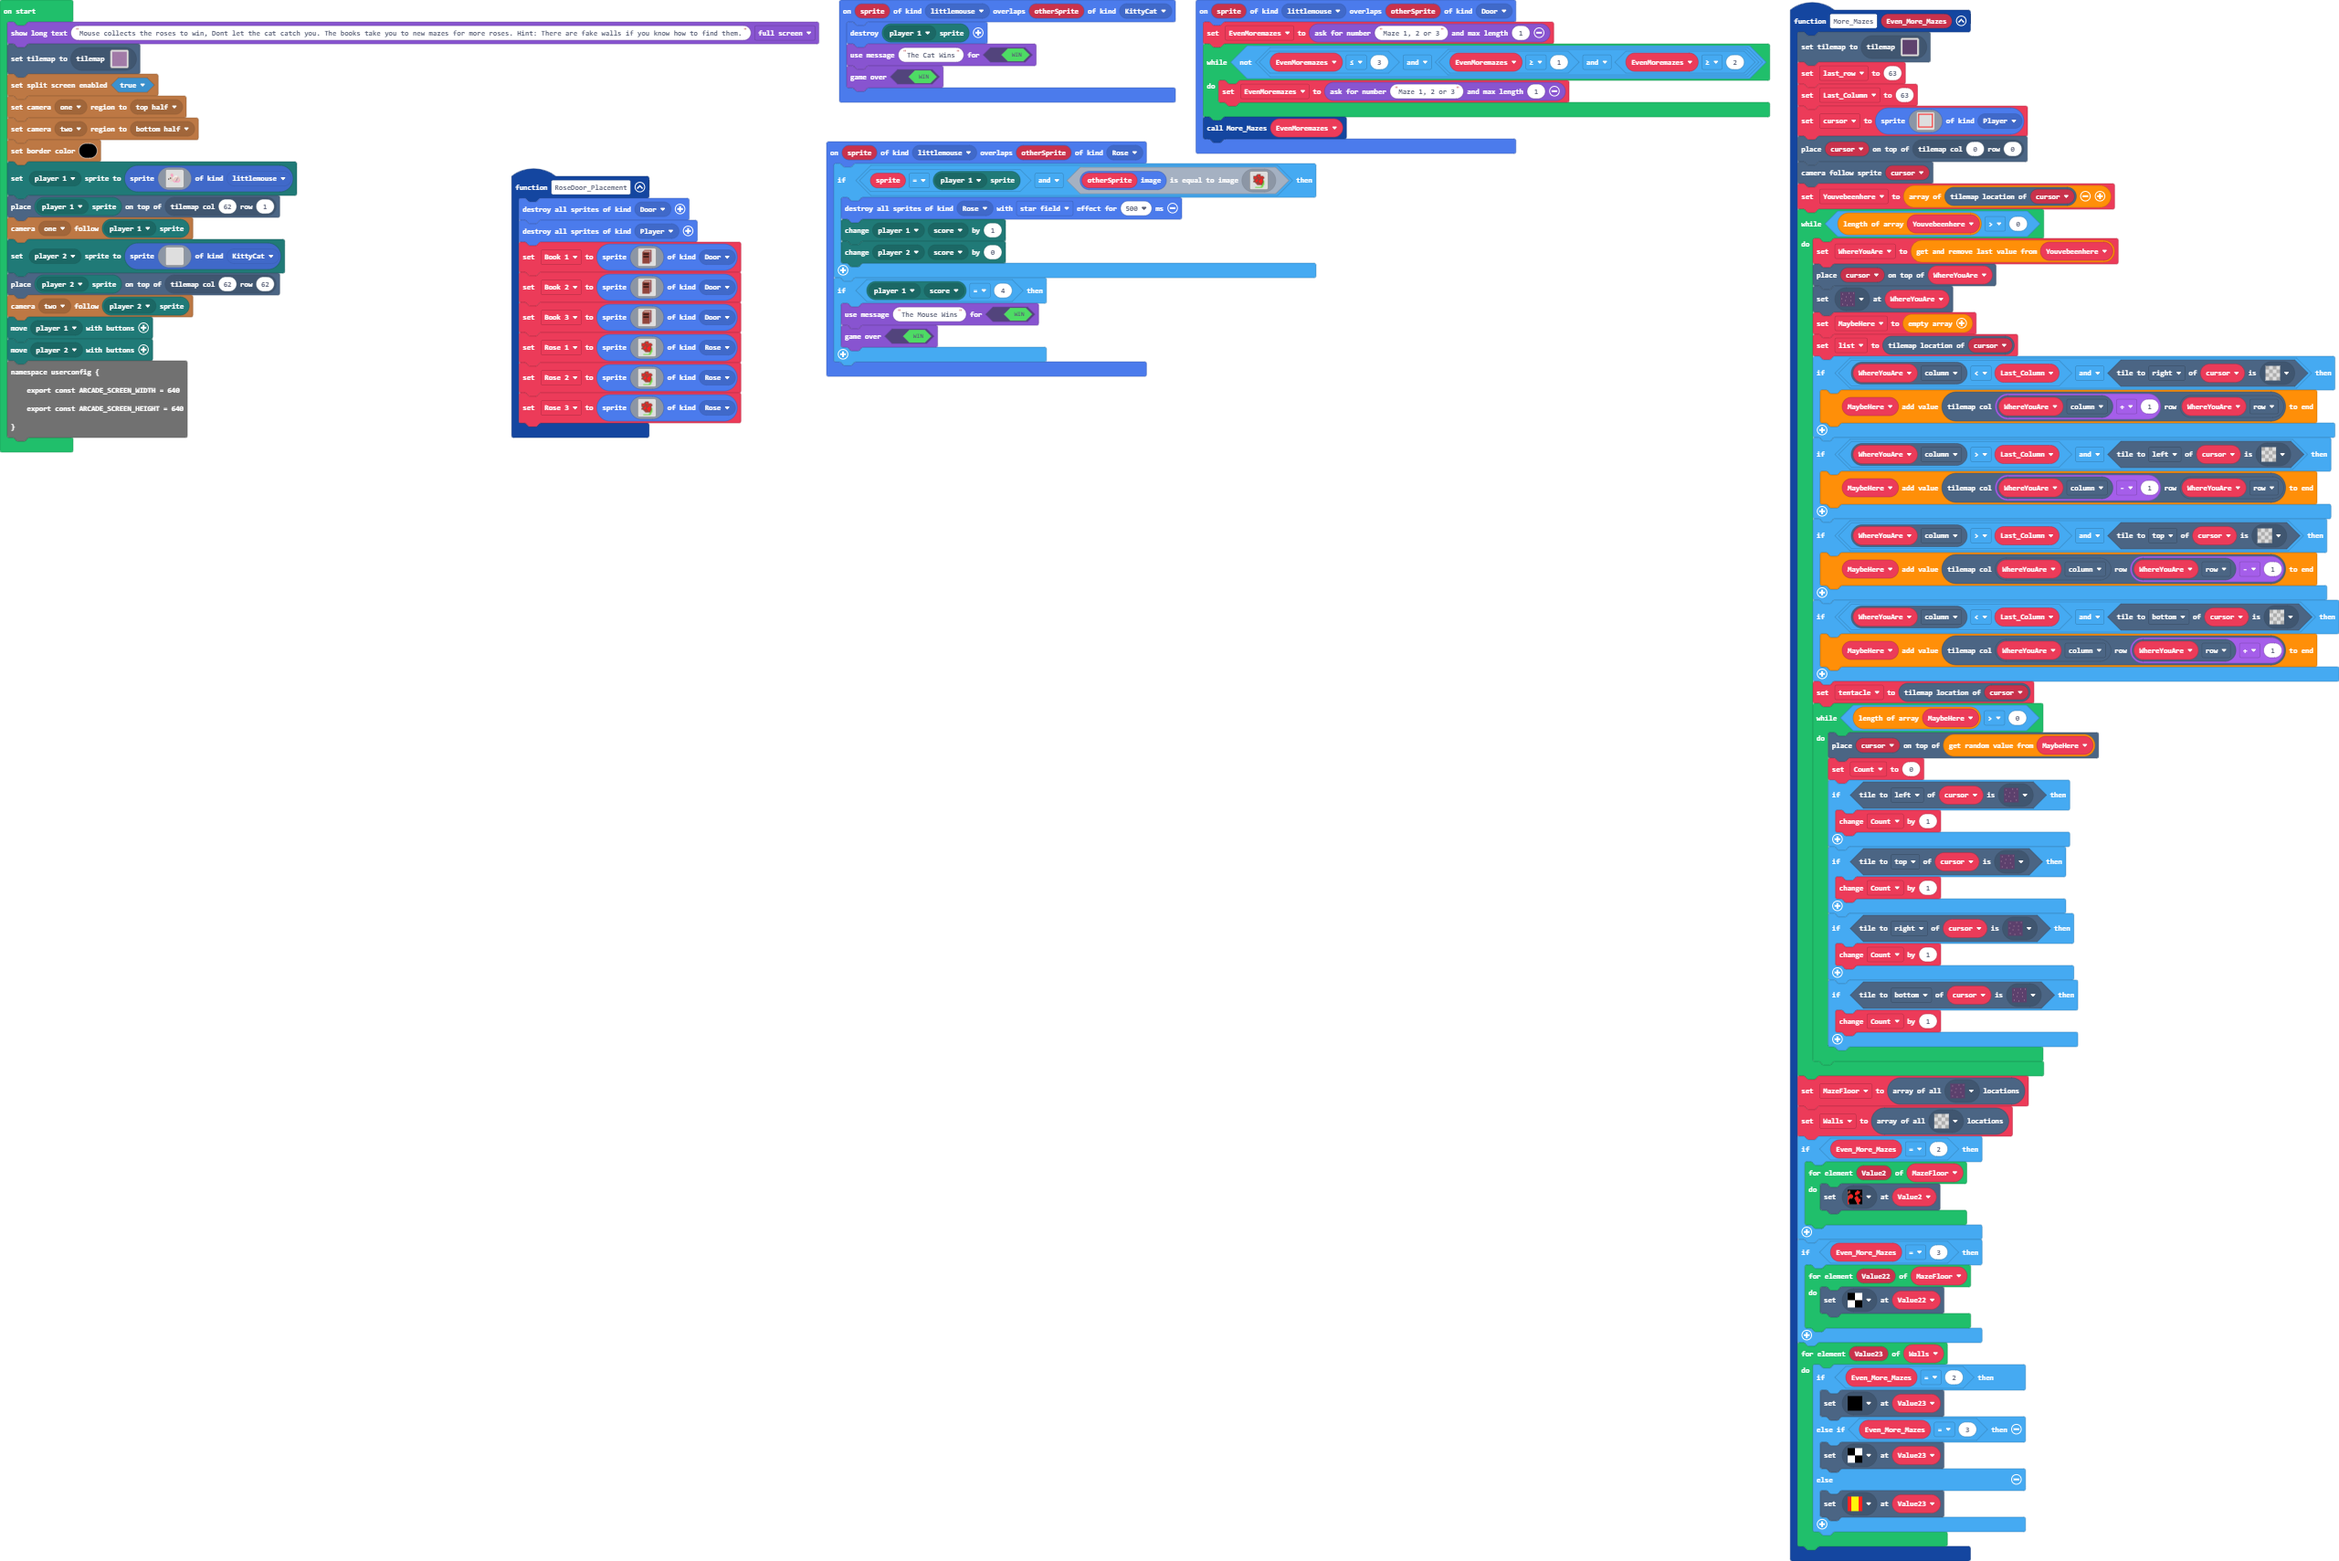
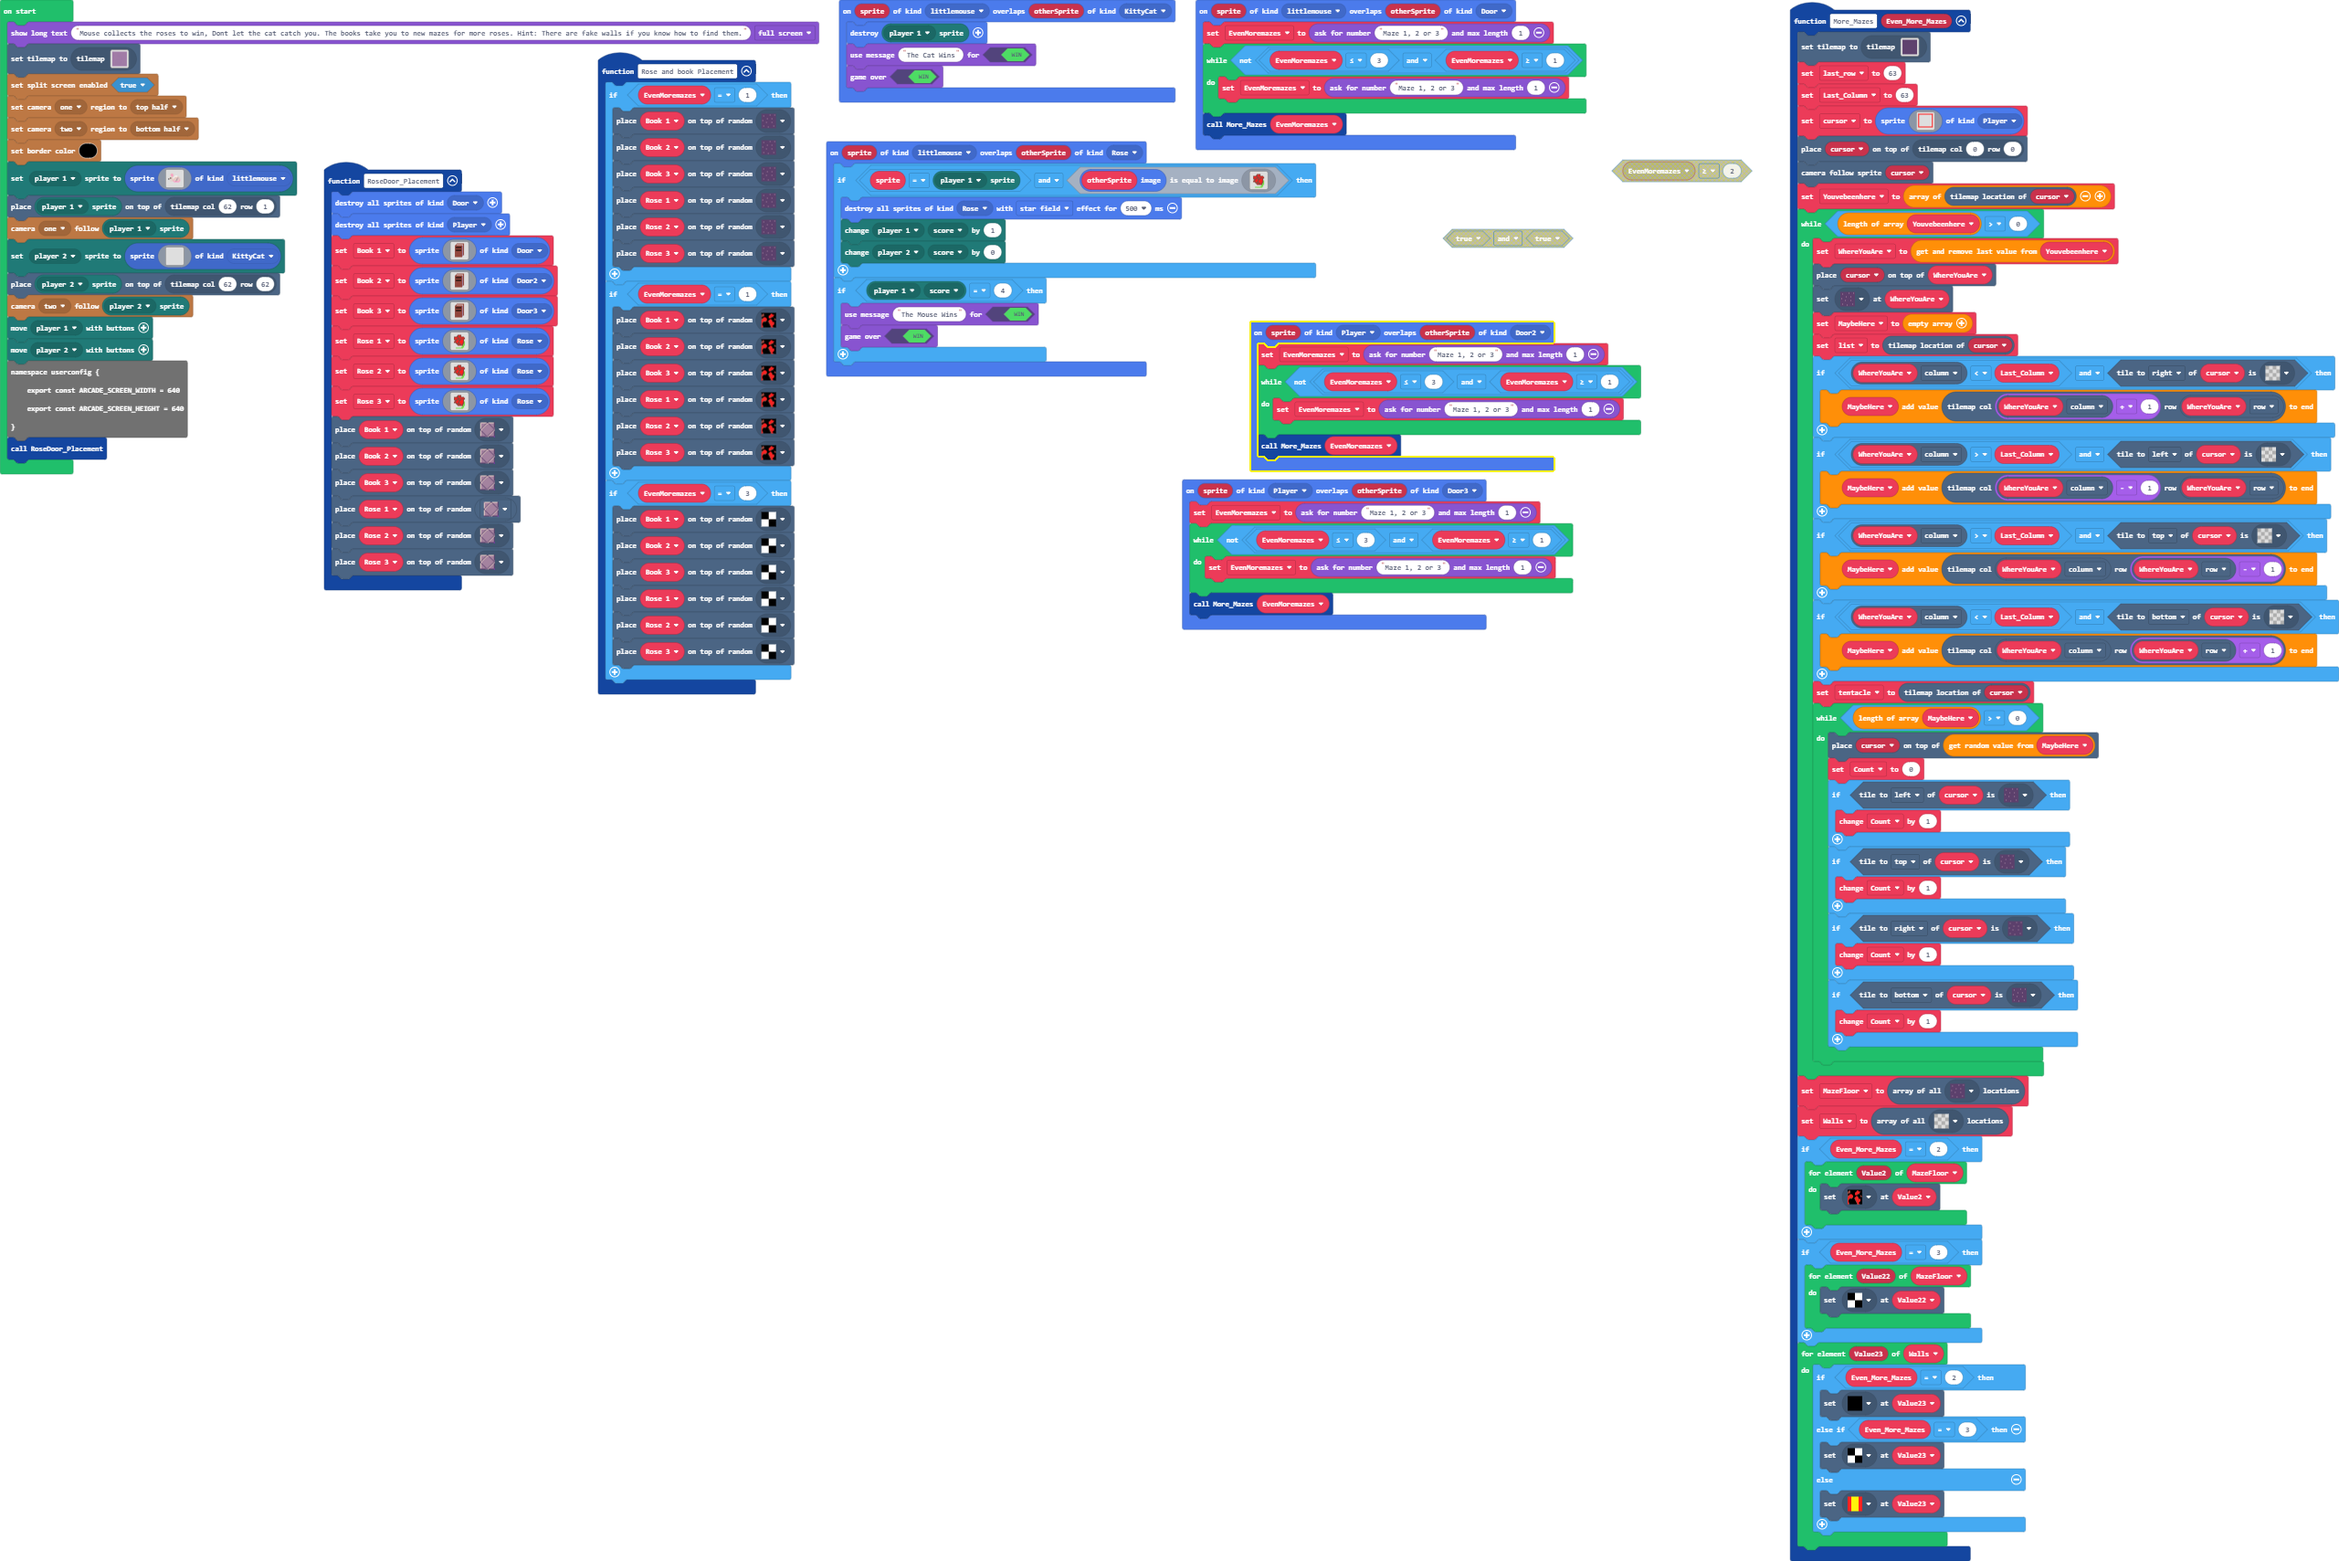
Finish maze and made helper function(Smth doesn't work)

diff --git a/main.ts b/main.ts
@@ -3,6 +3,8 @@ namespace SpriteKind {
     export const KittyCat = SpriteKind.create()
     export const Door = SpriteKind.create()
     export const Rose = SpriteKind.create()
+    export const Door2 = SpriteKind.create()
+    export const Door3 = SpriteKind.create()
 }
 function More_Mazes (Even_More_Mazes: number) {
     tiles.setCurrentTilemap(tilemap`level2`)
@@ -89,7 +91,7 @@ function More_Mazes (Even_More_Mazes: number) {
 }
 sprites.onOverlap(SpriteKind.littlemouse, SpriteKind.Door, function (sprite, otherSprite) {
     EvenMoremazes = game.askForNumber("Maze 1, 2 or 3", 1)
-    while (!(EvenMoremazes <= 3 && (EvenMoremazes >= 1 && EvenMoremazes >= 2))) {
+    while (!(EvenMoremazes <= 3 && EvenMoremazes >= 1)) {
         EvenMoremazes = game.askForNumber("Maze 1, 2 or 3", 1)
     }
     More_Mazes(EvenMoremazes)
@@ -122,10 +124,43 @@ sprites.onOverlap(SpriteKind.littlemouse, SpriteKind.Rose, function (sprite, oth
         game.gameOver(true)
     }
 })
+function Rose_and_book_Placement () {
+    if (EvenMoremazes == 1) {
+        tiles.placeOnRandomTile(Book_1, sprites.dungeon.darkGroundCenter)
+        tiles.placeOnRandomTile(Book_2, sprites.dungeon.darkGroundCenter)
+        tiles.placeOnRandomTile(Book_3, sprites.dungeon.darkGroundCenter)
+        tiles.placeOnRandomTile(Rose_1, sprites.dungeon.darkGroundCenter)
+        tiles.placeOnRandomTile(Rose_2, sprites.dungeon.darkGroundCenter)
+        tiles.placeOnRandomTile(Rose_3, sprites.dungeon.darkGroundCenter)
+    }
+    if (EvenMoremazes == 1) {
+        tiles.placeOnRandomTile(Book_1, assets.tile`myTile1`)
+        tiles.placeOnRandomTile(Book_2, assets.tile`myTile1`)
+        tiles.placeOnRandomTile(Book_3, assets.tile`myTile1`)
+        tiles.placeOnRandomTile(Rose_1, assets.tile`myTile1`)
+        tiles.placeOnRandomTile(Rose_2, assets.tile`myTile1`)
+        tiles.placeOnRandomTile(Rose_3, assets.tile`myTile1`)
+    }
+    if (EvenMoremazes == 3) {
+        tiles.placeOnRandomTile(Book_1, assets.tile`myTile0`)
+        tiles.placeOnRandomTile(Book_2, assets.tile`myTile0`)
+        tiles.placeOnRandomTile(Book_3, assets.tile`myTile0`)
+        tiles.placeOnRandomTile(Rose_1, assets.tile`myTile0`)
+        tiles.placeOnRandomTile(Rose_2, assets.tile`myTile0`)
+        tiles.placeOnRandomTile(Rose_3, assets.tile`myTile0`)
+    }
+}
 sprites.onOverlap(SpriteKind.littlemouse, SpriteKind.KittyCat, function (sprite, otherSprite) {
     sprites.destroy(mp.getPlayerSprite(mp.playerSelector(mp.PlayerNumber.One)))
     game.setGameOverMessage(true, "The Cat Wins")
     game.gameOver(true)
+})
+sprites.onOverlap(SpriteKind.Player, SpriteKind.Door3, function (sprite, otherSprite) {
+    EvenMoremazes = game.askForNumber("Maze 1, 2 or 3", 1)
+    while (!(EvenMoremazes <= 3 && EvenMoremazes >= 1)) {
+        EvenMoremazes = game.askForNumber("Maze 1, 2 or 3", 1)
+    }
+    More_Mazes(EvenMoremazes)
 })
 function RoseDoor_Placement () {
     sprites.destroyAllSpritesOfKind(SpriteKind.Door)
@@ -165,7 +200,7 @@ function RoseDoor_Placement () {
         . . . e e e e e e e e b . . . . 
         . . . e e e e e e e e . . . . . 
         . . . . . . . . . . . . . . . . 
-        `, SpriteKind.Door)
+        `, SpriteKind.Door2)
     Book_3 = sprites.create(img`
         . . . . . e e e e e e e e . . . 
         . . . . e d d d d d d d e . . . 
@@ -183,7 +218,7 @@ function RoseDoor_Placement () {
         . . . e e e e e e e e b . . . . 
         . . . e e e e e e e e . . . . . 
         . . . . . . . . . . . . . . . . 
-        `, SpriteKind.Door)
+        `, SpriteKind.Door3)
     Rose_1 = sprites.create(img`
         . . . . . . . . . . . . . . . . 
         . . . . . . e e e e . . . . . . 
@@ -238,7 +273,20 @@ function RoseDoor_Placement () {
         . . . . . . . . . . 7 7 7 . . . 
         . . . . 7 7 7 7 7 7 7 7 . . . . 
         `, SpriteKind.Rose)
+    tiles.placeOnRandomTile(Book_1, sprites.dungeon.floorDarkDiamond)
+    tiles.placeOnRandomTile(Book_2, sprites.dungeon.floorDarkDiamond)
+    tiles.placeOnRandomTile(Book_3, sprites.dungeon.floorDarkDiamond)
+    tiles.placeOnRandomTile(Rose_1, sprites.dungeon.floorDarkDiamond)
+    tiles.placeOnRandomTile(Rose_2, sprites.dungeon.floorDarkDiamond)
+    tiles.placeOnRandomTile(Rose_3, sprites.dungeon.floorDarkDiamond)
 }
+sprites.onOverlap(SpriteKind.Player, SpriteKind.Door2, function (sprite, otherSprite) {
+    EvenMoremazes = game.askForNumber("Maze 1, 2 or 3", 1)
+    while (!(EvenMoremazes <= 3 && EvenMoremazes >= 1)) {
+        EvenMoremazes = game.askForNumber("Maze 1, 2 or 3", 1)
+    }
+    More_Mazes(EvenMoremazes)
+})
 let Rose_3: Sprite = null
 let Rose_2: Sprite = null
 let Rose_1: Sprite = null
@@ -309,3 +357,4 @@ namespace userconfig {
     export const ARCADE_SCREEN_WIDTH = 640
     export const ARCADE_SCREEN_HEIGHT = 640
 }
+RoseDoor_Placement()
